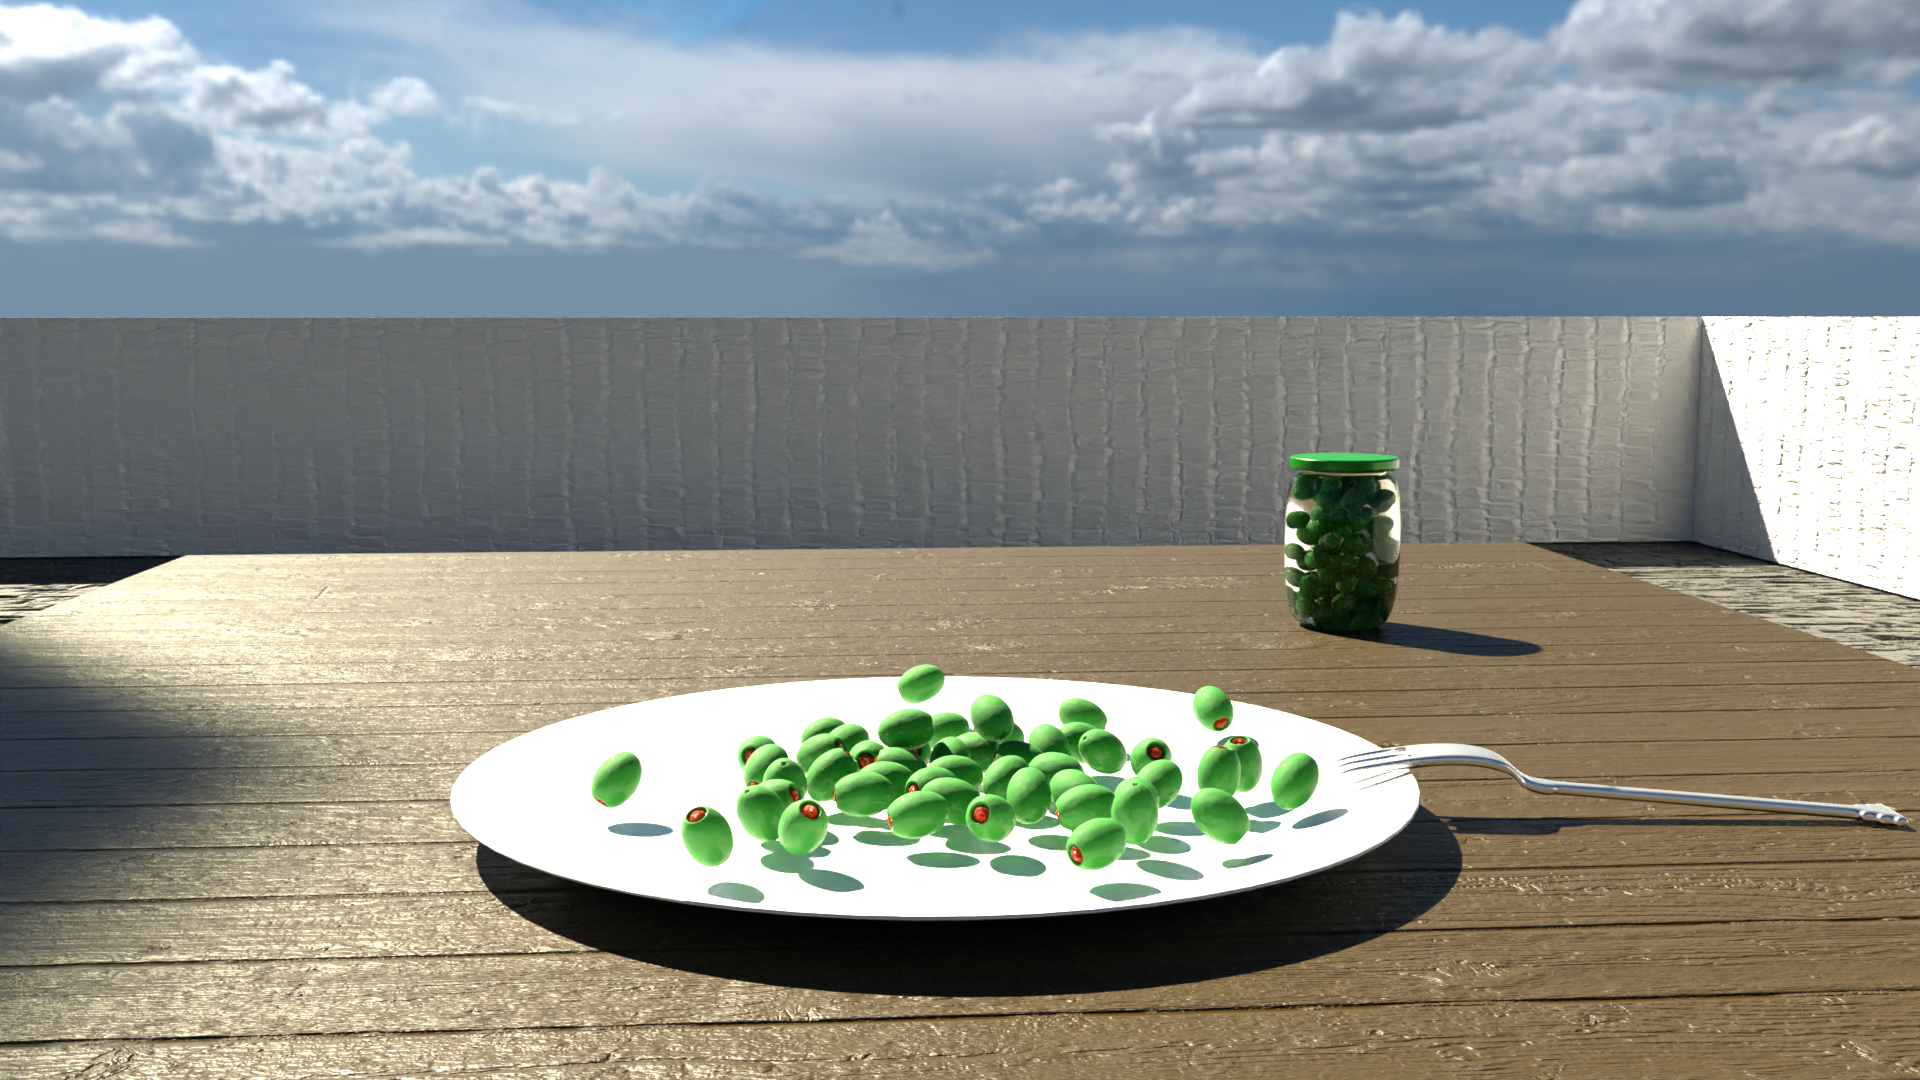
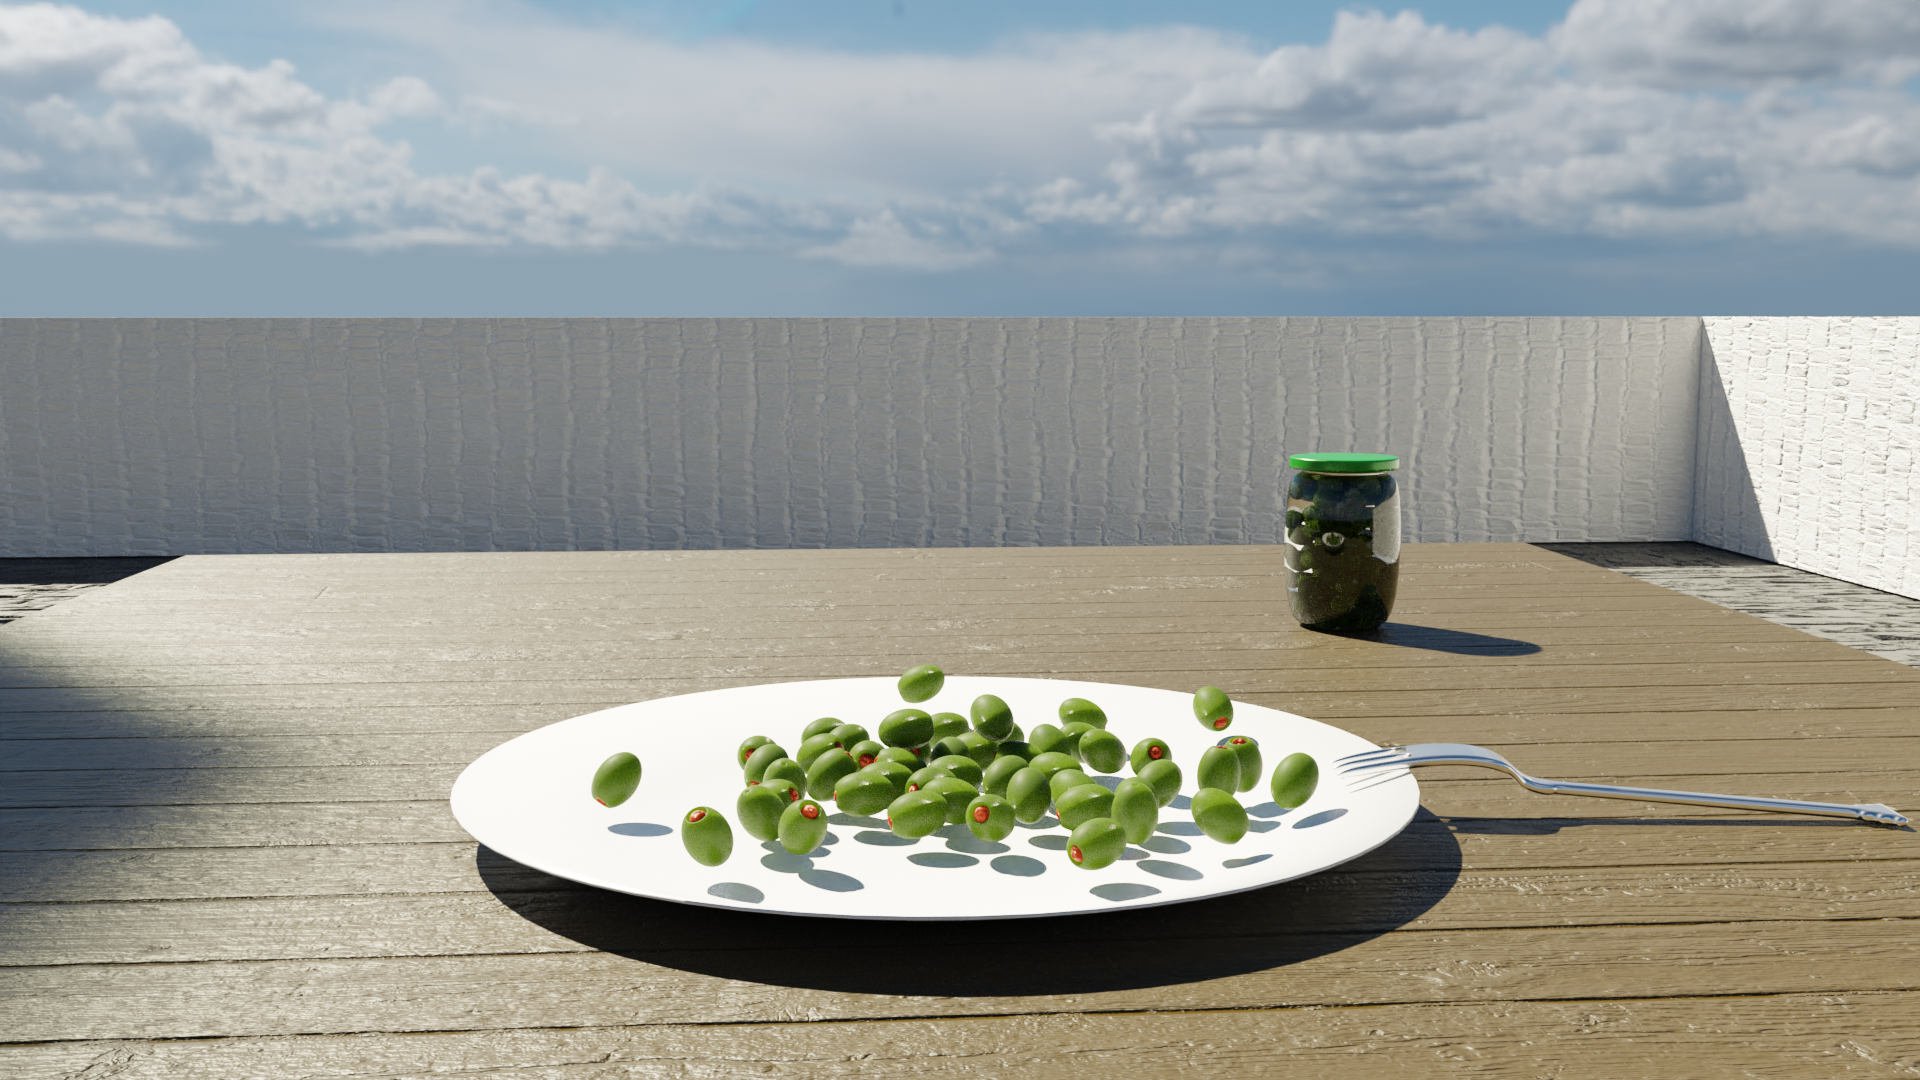
Updated olives and added difference

diff --git a/assets/scss/mystyles.scss b/assets/scss/mystyles.scss
@@ -318,6 +318,7 @@ blockquote {
         }
 
         .details {
+            margin-top: 0.2rem;
             display: flex;
 
             p {

diff --git a/content/Renders/index.md b/content/Renders/index.md
@@ -29,3 +29,7 @@ All textures used are from [Poligon](https://www.poliigon.com/)
 {{< render_img description="Olives are my favourite single food. Good inspiration." rendertime="25 seconds" samples="100" >}}
 {{< image path="img/Olives" alt="Olives on a plate!" >}}
 {{< /render_img >}}  
+
+{{< render_img description="Finally fixed the olives. Note the differences mainly in the olives themselves, jar, and fork. I wasn't happy with the materials originally, and I want to show the difference now afterwards." rendertime="25 seconds" samples="100" >}}
+{{< image path="img/Olives_Difference" alt="Old olive render vs new bits" >}}
+{{< /render_img >}}  
